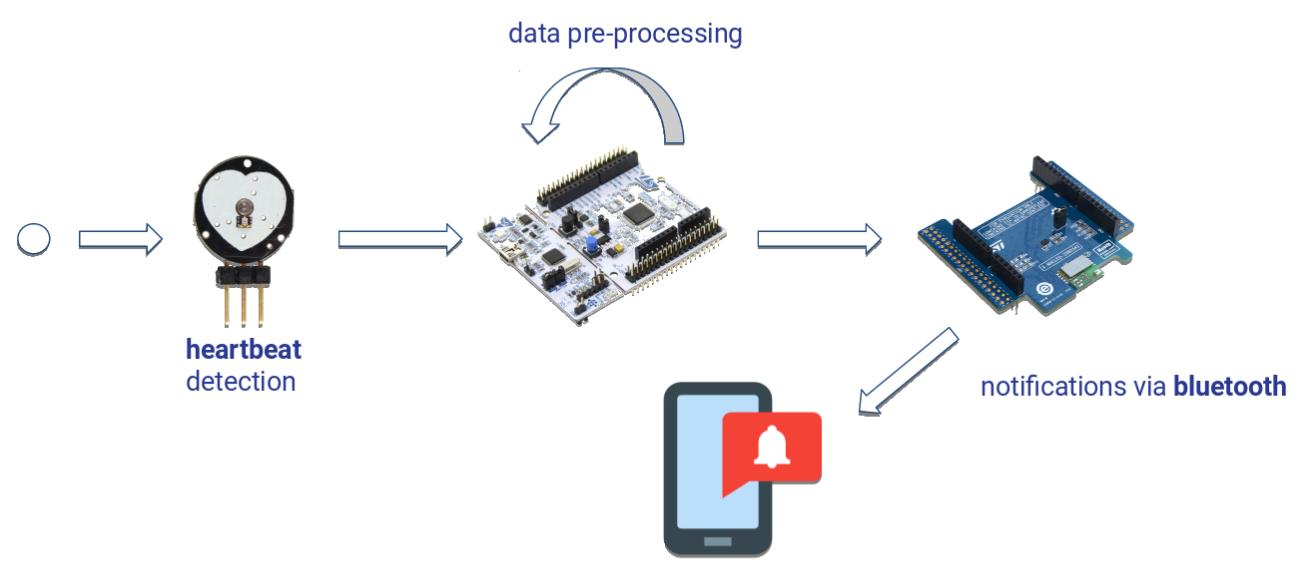
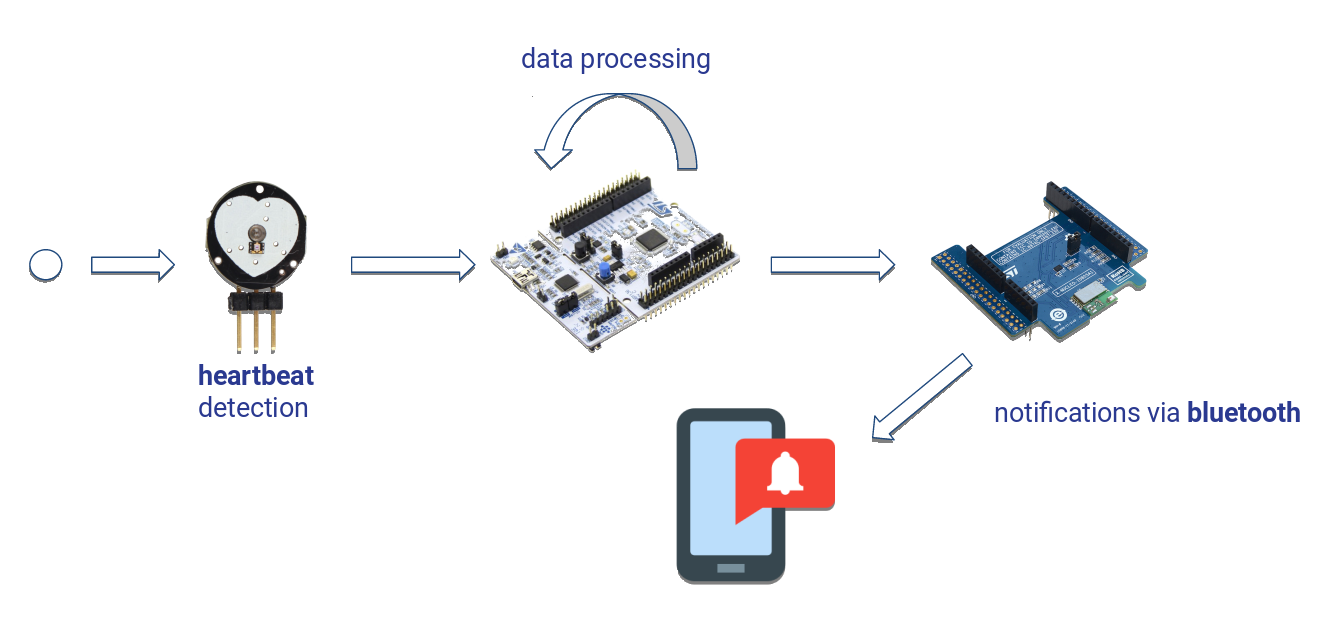
Updated Readme and other small changes

Changed region(s): [[0.0, 0.0308, 0.875, 0.6781], [0.5, 0.5548, 0.75, 0.9555], [0.75, 0.6164, 1.0, 0.6781]]

diff --git a/README.md b/README.md
@@ -1,6 +1,7 @@
 # SmartECG  
 
 A system to detect fibrillations using a **heartbeat** sensor, like a heart rate monitor. The user is notified if he is affected by **atrial fibrillation**.
+Atrial fibrillation is an abnormal heart rhythm characterized by **rapid and irregular beating** of the atria. Often it starts as brief periods of abnormal beating which become longer and possibly constant over time.
 
 ## Components
 ### Hardware
@@ -15,17 +16,35 @@ A system to detect fibrillations using a **heartbeat** sensor, like a heart rate
 ### Architecture
 <img src="pictures/architecture.png" width="500" />  
 
-
 ### Connections
 **STM32 Nucleo board connected to the pulse sensor and the bluetooth module**
 <img src="pictures/connections.jpg" width="300" />  
 
 ## How does SmartECG work
-The STM32 Nucleo board detects heartbeats through the pulse sensor. They are pre-processed and sent via bluetooth to the android application.
-The pre-processed heartbeats are submitted to a machine learning algorithm. The android application notify the user when it is affected by atrial fibrillation
+The STM32 Nucleo board detects heartbeats through the pulse sensor. They are pre-processed and then elaborated from a machine learning algorithm. 
+The result is sent via Bluetooth to the android application that shows the BPM (beats-per-minute) in the main screen and notify the user when it is affected by atrial fibrillation
 
-### Heartbeat pre-processing
-The heartbeats are pre-processed by obtaining five values that will be submitted to the machine learning algorithm:
+
+### The machine learning algorithm
+The Machine Learning algorithm used is [K-nearest neighbors](https://en.wikipedia.org/wiki/K-nearest_neighbors_algorithm).  
+
+The KNN memorizes the training dataset, indeed it doesn't learn a discriminative function from the training data as the traditional machine learning algorithm. This sometimes makes KNN much more efficient in circumstances where traditional algorithms fail.
+All the dataset is stored inside the STM32-board in a data structure. The board then always do comparisons between the new data received from the sensor, and its internal dataset. The KNN implemented on the board uses the Euclidean distance as distance metric to determine the correct result. 
+
+The KNN algorithm can be summarized by the following steps: 
+1. Choose the number of k and a distance metric. 
+1. Find the k nearest neighbors of the sample that we want to classify.
+1. Assign the class label by majority vote. 
+
+<img src="pictures/knn.png" width="300" />
+
+The picture illustrates how a new data point “?” is assigned to the triangle class label based on majority voting among its k nearest neighbors. In the example K = 5.
+
+The dataset we used has been preprocessed according to the procedures described in the following article:
+
+*Mar, T., Zaunseder, S., Martinnez, J. P., Llamedo, M., & Poll, R. (August 01, 2011). Optimization of ECG Classification by Means of Feature Selection. Ieee Transactions on Biomedical Engineering, 58, 8, 2168-2177.*
+
+As stated in the article we pre-processed the data calculating the following values:
 
 1. The average of the last three beats
 1. The last beat
@@ -33,12 +52,29 @@ The heartbeats are pre-processed by obtaining five values that will be submitted
 1. The third to last beat
 1. The average of the last ten beats
 
-### The machine learning algorithm
-The Machine Learning algorithm used is [K-nearest neighbors](https://en.wikipedia.org/wiki/K-nearest_neighbors_algorithm).  
-The accuracy of prediction is 94% - 97%.  
-<img src="pictures/knn_correctness.png" width="500" />  
-The algorithm was implemented in java by Amazon software engineer Li Gong. It is a [GitHub project](http://github.com/wihoho/KNN).  
+We need these values because fibrillation is detected only when the intervals between two beats corresponding to the electrical activation of the ventricles are completely irregular without following a repetitive pattern.
 
+The choice to use the KNN is due to the excellent results obtained by its executions during the testing phase. We compared different machine learning algorithms writing a script in Python (available at this [link](py/script.py)) It uses the [scikit-learn library](http://scikit-learn.org/stable/index.html). 
+
+Below is a list of all the machine learning algorithms tested with the results obtained:
+
+| Algorithm | Score |
+|:----------|:------|
+| KNN       | 0.957 |
+| SVM       | 0.908 |
+| Random Forest | 0.935 |
+| Random Forest with PCA preprocessing | 0.941 |
+| Logistic Regression | 0.907 |
+| Neural Network | 0.928 |
+
+<img src="pictures/knn_results.png" width="500" />
+
+As we can see from the graph, the KNN achieves the best results.  
+The accuracy of prediction is always between 94% and 97%.  
+
+<img src="pictures/knn_correctness.png" width="500" />
+
+The image shows an execution of the training set, and where the algorithm predicts correctly the fibrillation.
 
 ## Code
 * [STM Nucleo-F401RE Board](./Nucleo)  
@@ -75,3 +111,4 @@ You can find the tutorial at this link: https://github.com/stm32duino/wiki/wiki/
 * [STM32 Nucleo-F401RE](http://www.st.com/en/evaluation-tools/nucleo-f401re.html)  
 * [X-Nucleo-IDB04A1](http://www.st.com/en/ecosystems/x-nucleo-idb04a1.html)  
 * [Pulse sensor](https://pulsesensor.com/)
+
